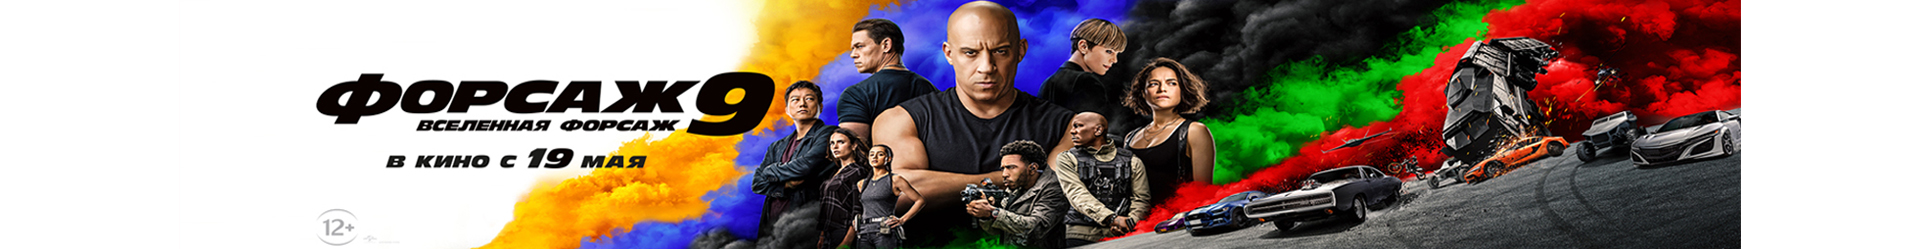
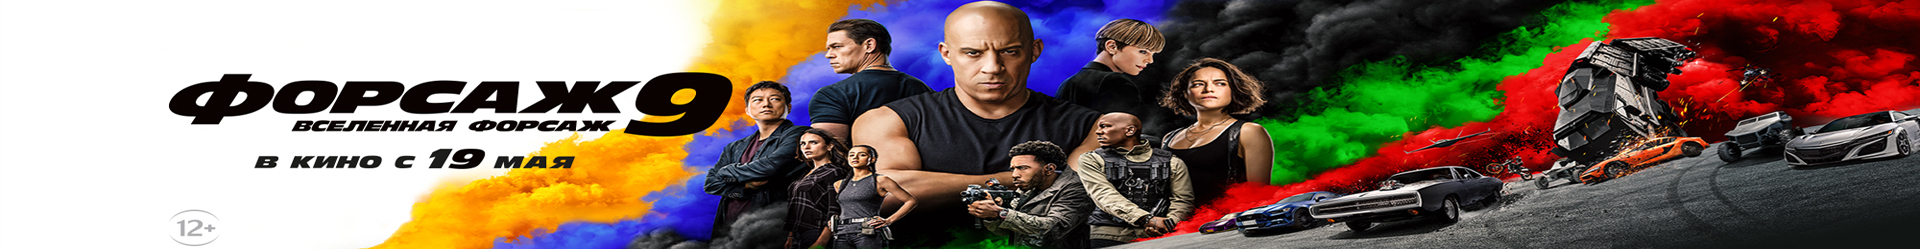
last 25-05-2021

diff --git a/src/SCSS/generalStyles.scss b/src/SCSS/generalStyles.scss
@@ -37,16 +37,14 @@ a:focus {
 }
 
 .mainContainer {
-  background-color: #ff060e;
-  background-image: url('/Images/main_image3.jpg');
+  background-image: url('../images/main_image.jpg'),
+    linear-gradient(to right, white 50%, #111514 50%);
   background-position: top center;
   background-repeat: no-repeat;
+  background-size: 100% 246px, 100%;
   height: 100%;
-  @media (max-width: 1200px) {
-    background-size: 1600px 250px;
-  }
   @media (max-width: 992px) {
-    background-size: 1220px 200px;
+    background-size: 100% 199px, 100%;
   }
   @media (max-width: 767.5px),
     (max-height: 500px) and (-webkit-min-device-pixel-ratio: 2) {
@@ -70,10 +68,6 @@ a:focus {
   opacity: 1;
   height: 245px;
 
-  // background-color: #ff060e;
-  // background-image: url('/Images/main_image3.jpg');
-  // background-size: cover;
-
   @media (max-width: 992px) {
     height: 198px;
   }
@@ -92,6 +86,7 @@ hr {
 }
 .line_5px {
   border-top: $border5px;
+  margin-left: -1px;
   @media (max-width: 992px) {
     border-top: $border3px;
   }

diff --git a/src/SCSS/variables.scss b/src/SCSS/variables.scss
@@ -1,9 +1,9 @@
 $lusidaFont: Lucida Console, monospace;
 $arialFont: Arial Black, sans-serif;
-$robotoFont: "Roboto", "Helvetica", "Arial", sans-serif;
+$robotoFont: 'Roboto', 'Helvetica', 'Arial', sans-serif;
 $playFont: 'Play', serif;
 
-$linesColor: white;
+$linesColor: #ebece9;
 $border1px: solid 1px;
 $border2px: solid 2px;
 $border3px: solid 3px;
@@ -12,9 +12,9 @@ $border5px: solid 5px;
 // Переменные сайта для слабовидящих
 // Цветовые темы
 $blackWhiteBackground: black;
-$blackWhiteElements: #f3f5f0;
+$blackWhiteElements: #ebece9;
 
-$whiteBlackBackground: #e9ebe6;
+$whiteBlackBackground: #ebece9;
 $whiteBlackElements: black;
 
 $blackRedBackground: black;
@@ -25,6 +25,3 @@ $yellowBrownElements: #800025;
 
 $blueGreenBackground: #b4e5ee;
 $blueGreenElements: #5e4005;
-
-
-

diff --git a/src/REDUX/cinemaReduser.js b/src/REDUX/cinemaReduser.js
@@ -13,7 +13,7 @@ export const cinemaReduser = (state = initialState, action) => {
   switch (action.type) {
     case CREATE_FILMS_TODAY_ARR:
       let filmsToday = []
-      for (let i = 0; i < state.filmsTodaySlides + 1; i++) {
+      for (let i = 0; i < state.filmsTodaySlides; i++) {
         filmsToday[i] = state.films[i] // тут регулируем, с какого фильма начнется нижний слайдер
       }
       return {
